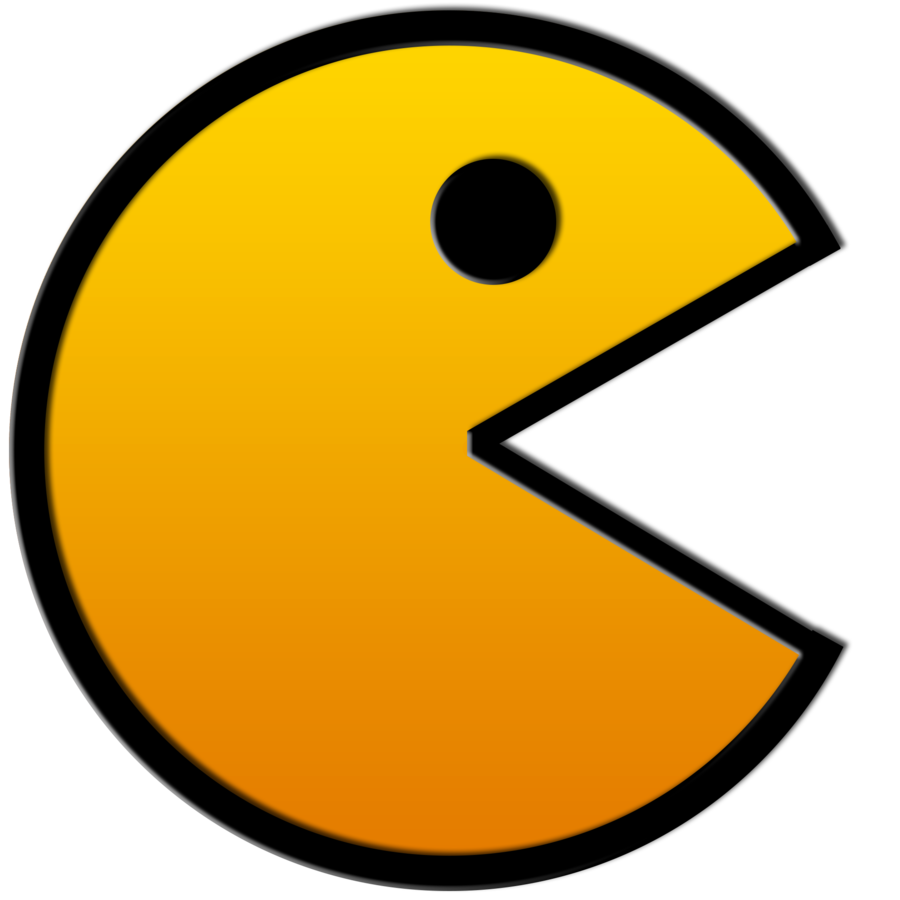
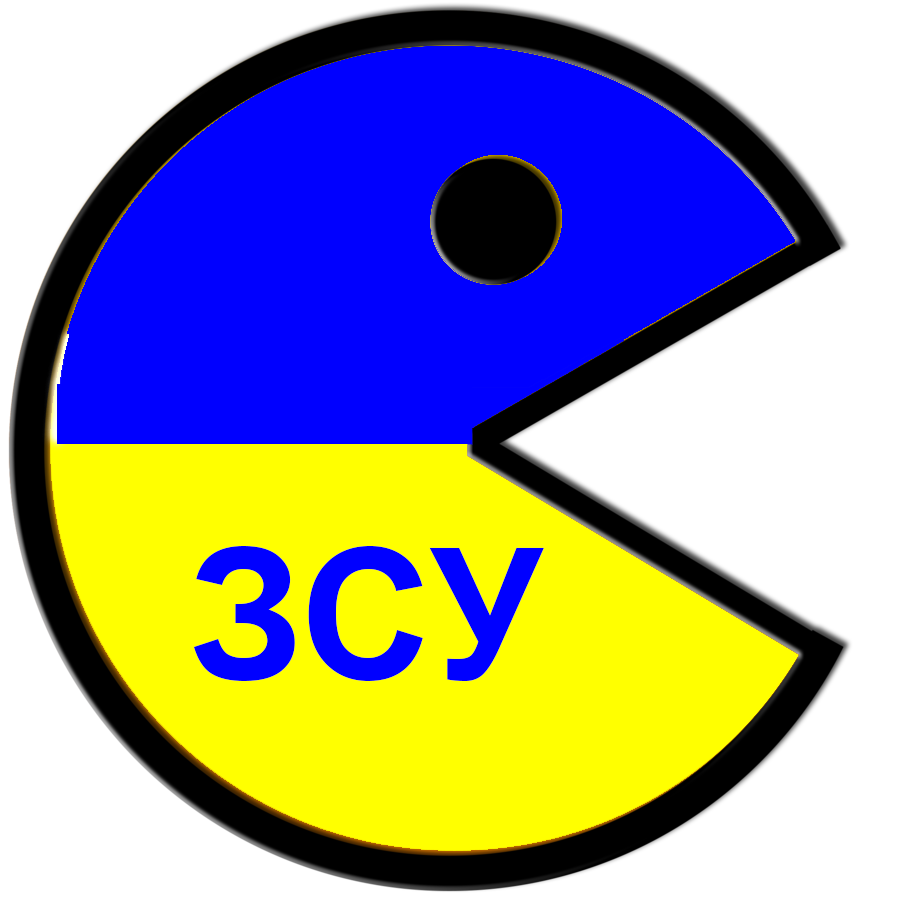
final betta

diff --git a/js/index.js b/js/index.js
@@ -8,12 +8,15 @@ PIXI.Loader.shared
   .add("image/russia.png")
   .add("image/UkraineMap.png")
   .add("image/win.jpg")
+  .add("image/pacman.png")
   .load(setup);
 
-let packman, russia, ukr, countRussia = 0, win, game;
-let rules = new PIXI.Text("Make russians equal to zero");
+let packman, packman2, russia, ukr, countRussia = 0, win, game, animatedSprite, startAnimationPosition = 0;
+let rules = new PIXI.Text(`   Using keyboard arrows, 
+make russians equal to zero`);
 let message = new PIXI.Text(countRussia);
 let allRus = [];
+let allUkr = [];
 
 function setup() {
         ukr = new PIXI.Sprite(PIXI.Loader.shared.resources["image/UkraineMap.png"].texture);
@@ -21,10 +24,16 @@ function setup() {
         ukr.scale.set(0.9, 0.9);
 
         packman = new PIXI.Sprite(PIXI.Loader.shared.resources["image/dino.png"].texture);
-        packman.scale.set(0.1, 0.1);
-        packman.position.set(200, 200);
-        app.stage.addChild(packman);
-        packman.anchor.set(0.5, 0.5);
+        allUkr.push(packman);
+
+        packman2 = new PIXI.Sprite(PIXI.Loader.shared.resources["image/pacman.png"].texture);
+        allUkr.push(packman2);
+
+        animatedSprite = new PIXI.AnimatedSprite(allUkr);
+        animatedSprite.scale.set(0.1, 0.1);
+        animatedSprite.anchor.set(0.5, 0.5);
+        animatedSprite.position.set(200, 200);
+        app.stage.addChild(animatedSprite);
         
         win = new PIXI.Sprite(PIXI.Loader.shared.resources["image/win.jpg"].texture);
         app.stage.addChild(win);
@@ -35,39 +44,36 @@ function setup() {
         addRusFascist();
         addRusFascist();
 
-
-        function addRusFascist() {
-                russia = new PIXI.Sprite(PIXI.Loader.shared.resources["image/russia.png"].texture);
-                russia.scale.set(0.1, 0.1);
-                russia.y = getRandom(20, 700);
-                if (russia.y < 160) {
-                    russia.x = getRandom(500, 630);
-                } else if (russia.y < 390){
-                    russia.x = getRandom(650, 960);
-                } else russia.x = getRandom(500, 800);
-
-                app.stage.addChild(russia);
-                allRus.push(russia);
-                countRussia++;
-          }
-          
         game = setInterval(addRusFascist, 2500);
         
-        function getRandom(min, max) {
-          return Math.floor(Math.random() * (max - min + 1)) + min;
-        }
-  
-        message.position.set(810, 50);
+        message.position.set(810, 80);
         app.stage.addChild(message);
         rules.position.set(700, 20);    
         app.stage.addChild(rules);
 
-        
         app.ticker.add(() => gameLoop());
 }
 
+function getRandom(min, max) {
+    return Math.floor(Math.random() * (max - min + 1)) + min;
+  }
+  
+function addRusFascist() {
+    russia = new PIXI.Sprite(PIXI.Loader.shared.resources["image/russia.png"].texture);
+    russia.scale.set(0.1, 0.1);
+    russia.y = getRandom(20, 700);
+    if (russia.y < 160) {
+        russia.x = getRandom(500, 630);
+    } else if (russia.y < 390){
+        russia.x = getRandom(650, 960);
+    } else russia.x = getRandom(500, 800);
+
+    app.stage.addChild(russia);
+    allRus.push(russia);
+    countRussia++;
+}
+
 function gameLoop() {
-    stateBorder(packman, {x: 20, y: 20, width: 1130, height: 760});
     message.text=countRussia;
     if (countRussia === 0){
         win.visible = true;
@@ -75,9 +81,7 @@ function gameLoop() {
         rules.visible = false;
         clearInterval(game);
     }
-    
 };
-
 
 function stateBorder(sprite, container) {          
     if (sprite.x < container.x) {
@@ -95,8 +99,13 @@ function stateBorder(sprite, container) {
 }
 
 window.addEventListener("keydown", function(event){
+    stateBorder(animatedSprite, {x: 20, y: 20, width: 1130, height: 760});
+
+    startAnimationPosition == 1 ? startAnimationPosition = 0 : startAnimationPosition = 1;
+    animatedSprite.gotoAndStop(startAnimationPosition);
+
     for (russia of allRus) {
-        if (hitTestRectangle(packman, russia)) {
+        if (hitTestRectangle(animatedSprite, russia)) {
             russia.visible = false;
              countRussia--;
         }        
@@ -104,28 +113,27 @@ window.addEventListener("keydown", function(event){
 
     switch (event.code) {
         case 'ArrowLeft':
-            packman.x -= 10;
-            packman.rotation = 3.14;
+            animatedSprite.x -= 10;
+            animatedSprite.rotation = 3.14;
             break;
         case 'ArrowRight':
-            packman.x += 10;
-            packman.rotation = 0;
+            animatedSprite.x += 10;
+            animatedSprite.rotation = 0;
             break;
         case 'ArrowUp':
-            packman.y -= 10;
-            packman.rotation = -1.57;
+            animatedSprite.y -= 10;
+            animatedSprite.rotation = -1.57;
             break;
         case 'ArrowDown':
-            packman.y += 10;
-            packman.rotation = 1.57;
+            animatedSprite.y += 10;
+            animatedSprite.rotation = 1.57;
             break;
         default:
-            packman.x += 0;
-            packman.y += 0;
+            animatedSprite.x += 0;
+            animatedSprite.y += 0;
             break;
     } 
 })
-
 
 function hitTestRectangle(r1, r2) {
     let hit;
